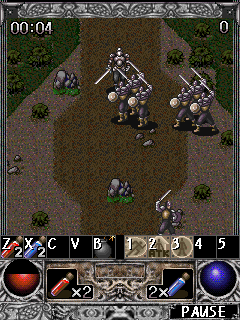
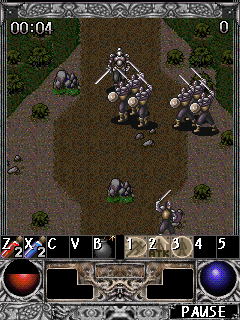
pyport: with the belt the * / # boxes of the HUD frame stay empty
Claude-Session: https://claude.ai/code/session_01Pra1epMZPuQTnokQfbK6NT

Changed region(s): [[0.6125, 0.8438, 0.7875, 0.9375], [0.2042, 0.8438, 0.3792, 0.9375]]

diff --git a/pyport/pow/game/pointer.py b/pyport/pow/game/pointer.py
@@ -40,6 +40,8 @@ exactly the Java one. Hit zones follow what is drawn on each screen (coordinates
 """
 import collections
 
+import config
+
 from pow.game import skill_bar
 from pow.game.game_canvas import GameCanvas
 from pow.midp.jint import idiv
@@ -273,7 +275,7 @@ def _map_keys(x, y, kind):
     slot = skill_bar.key_at(x, y)                     # PORT-EXTRA config.SKILL_BAR: belt / skill slot
     if slot is not None:
         return [] if slot == -999 else [slot]
-    potion = _hud_potion(x, y)
+    potion = None if config.SKILL_BAR else _hud_potion(x, y)   # PORT-EXTRA: no * / # boxes with the belt
     if potion is not None:                             # * / # boxes of the HUD: drink / throw
         return [potion]
     # a click on the hero = attack; beside the hero = a tap on that direction

diff --git a/pyport/pow/game/map_engine.py b/pyport/pow/game/map_engine.py
@@ -1603,10 +1603,13 @@ class MapEngine(GameCanvas):
             self.draw_message()
         else:
             self.draw_number_commas(GameCanvas.hero.kills_shown, GameCanvas.view_size.x - 4 - 7, 20)
-        self.draw_quick_potions()
         if config.SKILL_BAR:
+            # PORT-EXTRA config.SKILL_BAR: the belt above shows all 5 slots, so the * / # boxes of
+            # the frame stay empty (ar.aD is not drawn)
             from pow.game import skill_bar   # PORT-EXTRA config.SKILL_BAR: belt and skill slots
             skill_bar.draw_bar()
+        else:
+            self.draw_quick_potions()
         self.draw_clock(0, 5, GameCanvas.mission_seconds)
         if GameCanvas.state == 3 and GameCanvas.popups.kind == 0:
             if GameCanvas.map_mode.mode != 0:

diff --git a/pyport/README.md b/pyport/README.md
@@ -26,7 +26,7 @@ Esc/Backspace = права софт-клавіша (BACK), Q/F1 = ліва; ци
 клавіші **Z X C V B** або клік мишею; праворуч 5 скілів (іконки з `skill.png`), клавіші **1–5** або
 клік, сірий слот (`skillgray.png`) коли скіл не вивчено чи бракує MP; білою рамкою підсвічено скіл чи
 предмет, що діє зараз. Слот пояса вживається так само, як * / # (`c.java`), тож логіка бою не
-змінена; поза боєм Z / X лишаються * і # (Assign Items). У меню Assign Items над слотами тепер підписи Z X C V B замість * і #. `POW_SKILL_BAR=0` — оригінальний HUD.
+змінена; поза боєм Z / X лишаються * і # (Assign Items). Слоти * і # у рамці HUD тоді не малюються (пояс показує всі 5). У меню Assign Items над слотами тепер підписи Z X C V B замість * і #. `POW_SKILL_BAR=0` — оригінальний HUD.
 
 **Картка скіла** (PORT-EXTRA `config.SKILL_CARD`): у меню Skills замість рядка опису картка: назва й
 рівень, опис, MP, шкода за формулою бою (`ATK + ATK·Lv/aU`) і кількість ударів, лікування чи баф з
